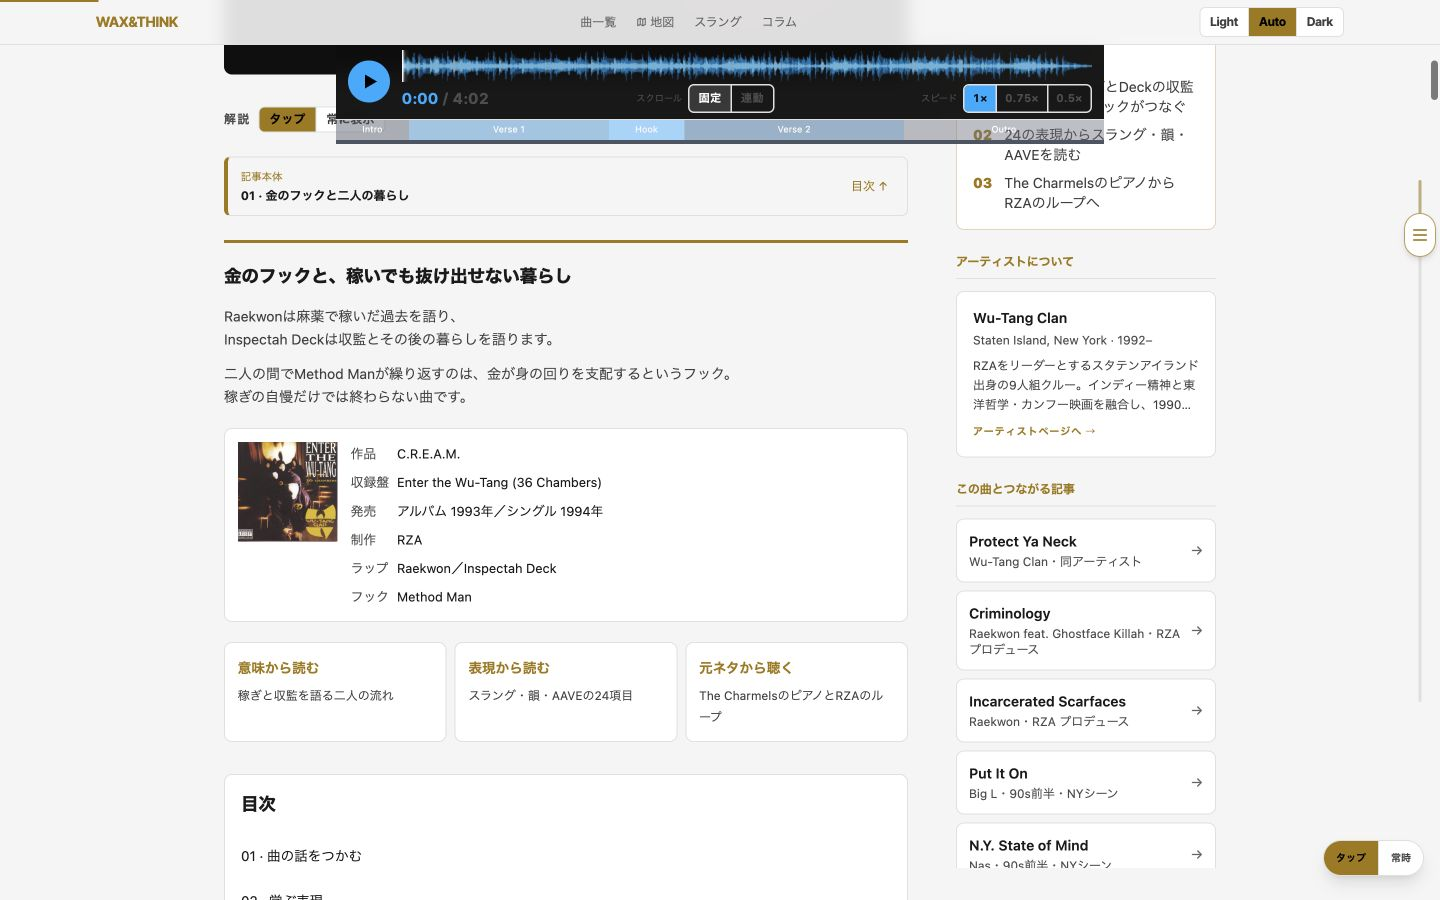
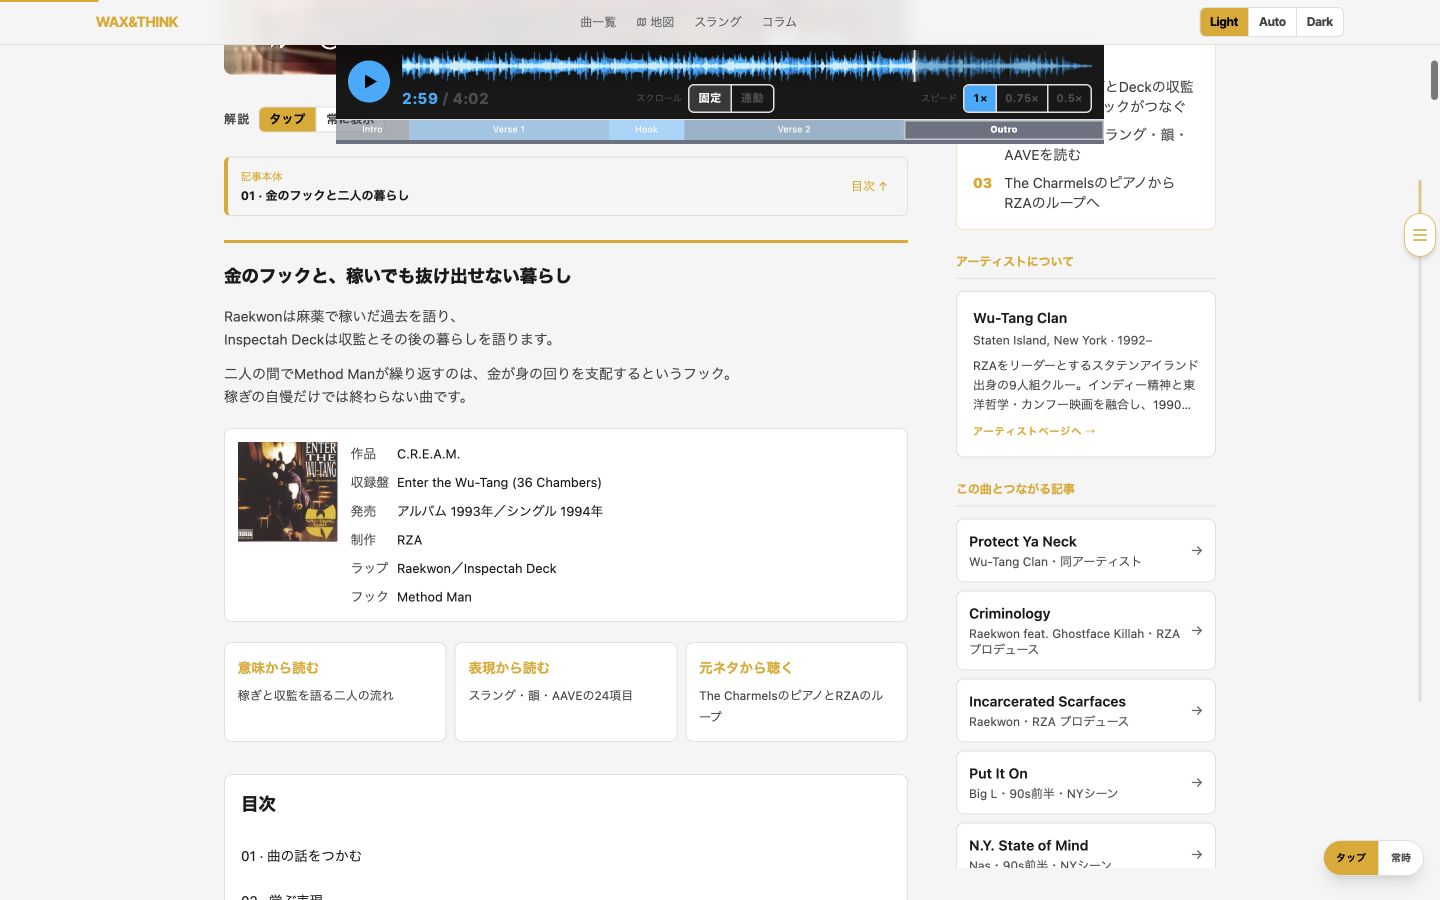
docs(cream): record deployed playback and responsive verification

diff --git a/AI_COLLABORATION.md b/AI_COLLABORATION.md
@@ -240,3 +240,8 @@ AIを活用し、WAX&THINKの検索・動画流入を継続収益へ変える。
 - 保全証明: 常設mainの変更ファイル429・review76のhashを照合し、ボード以外の変更0／status一致。音声・字幕・raw WIP snapshotは未追跡のローカル資料で、commit対象外。終了成果物はCREAM専用本文・時刻・画像・commerce・guard・証拠・本ボードに限定。出口reviewへ送信、本番は未公開／承認待ち。
 - 未完了: 推定2件は公式MV字幕の109.780/136.401秒候補へ変更、≈表示。既存manual14/caption7/非収録1は原記録を保全。音源MV242秒維持、album254秒へ切替／offset適用なし。IABでYouTube埋め込み再生不可のため実音は未確認。http://127.0.0.1:4334/ で2区間と両版導入を聴取可能。発声開始2点と導入のMV非収録確認が人間待ち。Amazon商品画像の個別API取得／再利用許諾証跡は未取得としてledger記録。
 - 次1タスク: 再生位置の聴取確定（字幕ブロックと発声開始を区別するため）。難度中／GPT-6.1 Sol high。ユーザー操作は聴取ページを開き「①秒、②秒、③MV非収録を確認／相違」を返信。確認反映後にCREAMだけの公開承認を受け、未変更publish-main.mjsのみ実行。次の記事へ進まない。作業全体は難度高。レビュー https://hiphop-git-review-darazuwares-projects.vercel.app/songs/cream/ （Vercelログイン保護あり）。詳細docs/cream-review-result-2026-10.md。
+
+### C.R.E.A.M. review送信／実機検証追補 — 2026-10-11 JST
+- Codex。87f20779938f336ce5c374c8b87550f1170fe454をreviewへpush、通常YouTube/Geniusフック合格、Vercel success。main74a1863不変。認証済み実reviewで24項目・23seek・候補109.78/136.401・写真2・商品5リンクの反映を確認。
+- ローカルYouTube再生不可の記録を補足: 実reviewでは再生時刻1:49→1:50、停止後1:50固定。390px全23箇所の再生と停止UI合格。実reviewのPC1440/390/320は実幅一致・横溢れ0・全5画像load合格。docs/cream-qa-2026-10の画像を実review撮影へ更新。本文／時刻への追加変更なし。
+- 人間待ちは発声開始2点＋導入のMV非収録の耳確認、本番公開承認。次1タスクと操作／モデルは上記の聴取確定のまま。GA4受信・成約とAmazon画像個別許諾の証跡は未取得。次の記事へ進まない。
